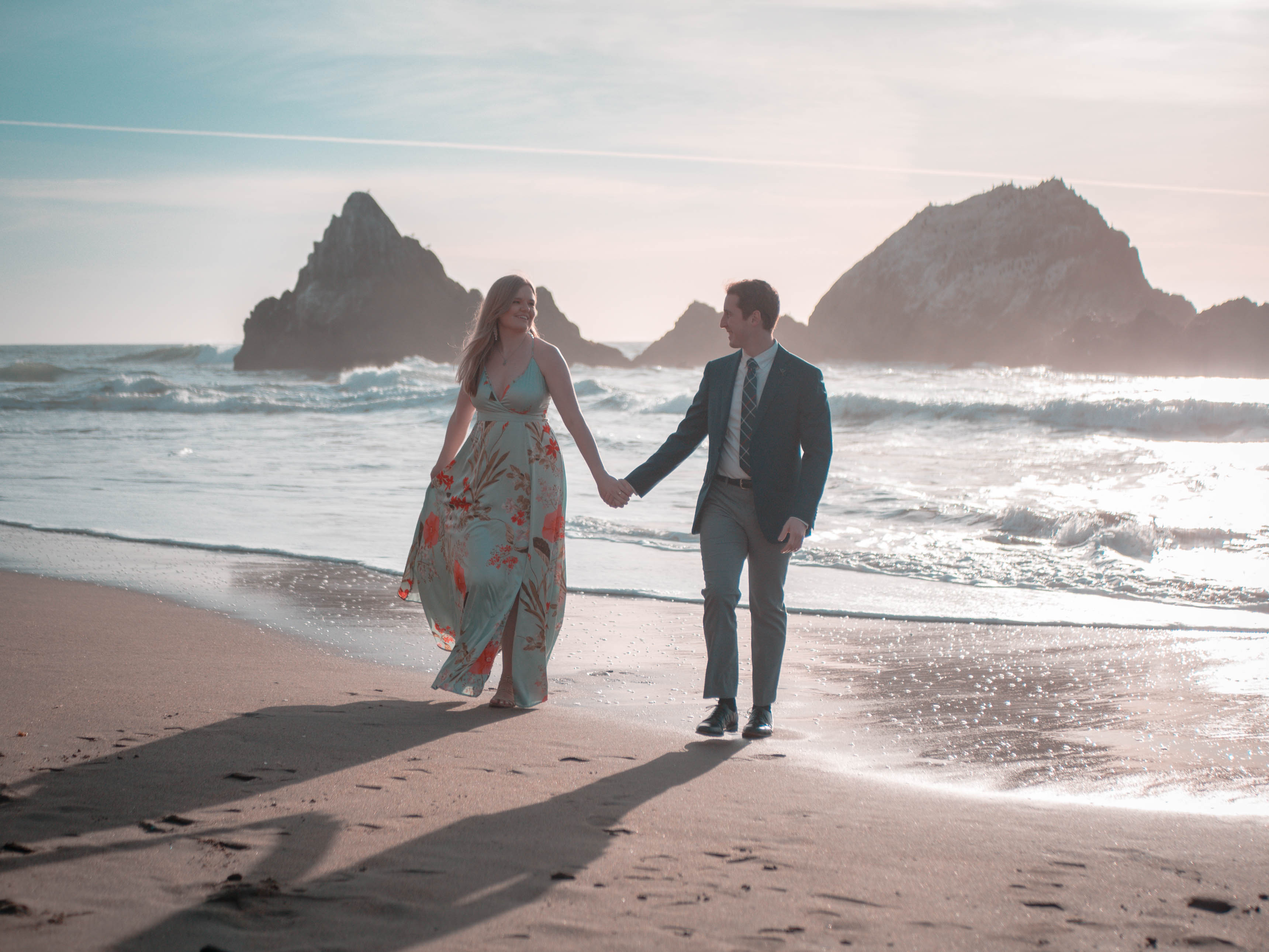
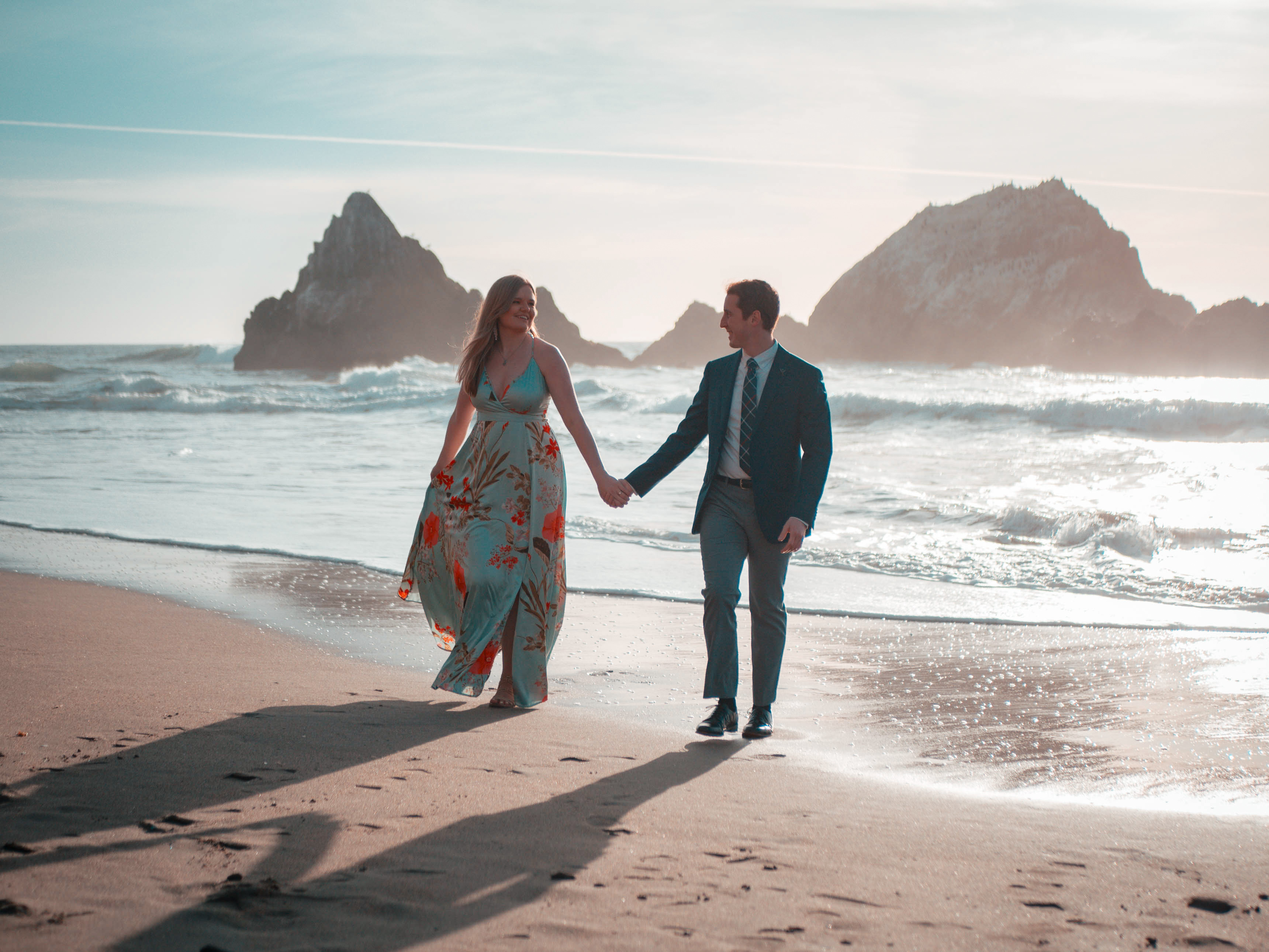
add hero image and update styles

diff --git a/src/components/Header/Header.tsx b/src/components/Header/Header.tsx
@@ -1,3 +1,4 @@
+import clsx from 'clsx';
 import { Link } from 'gatsby';
 import React from 'react';
 
@@ -5,29 +6,54 @@ import { Routes } from '../../types/routes';
 import * as styles from './Header.module.css';
 
 interface HeaderProps {
-  siteTitle: string;
+  className?: string;
 }
 
-const Header: React.FC<HeaderProps> = ({ siteTitle }) => (
-  <header className="flex items-center justify-between">
-    <h1>
-      <Link to={Routes.Index}>{siteTitle}</Link>
-    </h1>
-    <nav className="flex">
-      <Link className={styles.navLink} to={Routes.OurStory}>
-        Our Story
-      </Link>
-      <Link className={styles.navLink} to={Routes.Accommodations}>
-        Accommodations
-      </Link>
-      <Link className={styles.navLink} to={Routes.Rsvp}>
-        RSVP
-      </Link>
-      <Link className={styles.navLink} to={Routes.Registry}>
-        Registry
-      </Link>
-    </nav>
-  </header>
-);
+const Header: React.FC<HeaderProps> = ({ className }) => {
+  // const [isFloating, setIsFloating] = useState(() => window.scrollY > 0);
+
+  // useEffect(() => {
+  //   function updateScrollState() {
+  //     window.requestAnimationFrame(() => {
+  //       setIsFloating(window.scrollY > 0);
+  //     });
+  //   }
+  //   updateScrollState();
+  //   window.addEventListener('scroll', updateScrollState);
+
+  //   return () => {
+  //     window.removeEventListener('scroll', updateScrollState);
+  //   };
+  // }, []);
+
+  return (
+    <header className={clsx(className, 'flex flex-col items-center p-9 transition-colors')}>
+      <h3>
+        <Link className="flex items-center" to={Routes.Index}>
+          <span className="font-serif text-lightPrimary">E</span>
+          <span className="font-serif text-lightSecondary text-h5 px-6">&amp;</span>
+          <span className="font-serif text-lightPrimary">L</span>
+        </Link>
+      </h3>
+      <nav className="flex uppercase tracking-widest">
+        <Link activeClassName={styles.isActive} className={styles.navLink} to={Routes.OurStory}>
+          Our Story
+        </Link>
+        <span className={styles.divider}>|</span>
+        <Link activeClassName={styles.isActive} className={styles.navLink} to={Routes.Accommodations}>
+          Accommodations
+        </Link>
+        <span className={styles.divider}>|</span>
+        <Link activeClassName={styles.isActive} className={styles.navLink} to={Routes.Rsvp}>
+          RSVP
+        </Link>
+        <span className={styles.divider}>|</span>
+        <Link activeClassName={styles.isActive} className={styles.navLink} to={Routes.Registry}>
+          Registry
+        </Link>
+      </nav>
+    </header>
+  );
+};
 
 export default Header;

diff --git a/src/pages/index.tsx b/src/pages/index.tsx
@@ -1,36 +1,41 @@
-import { graphql, PageProps } from 'gatsby';
+import { PageProps } from 'gatsby';
 import { StaticImage } from 'gatsby-plugin-image';
 import React from 'react';
 
-import { SEO } from '../components';
+import { Header, HeroImage, SEO } from '../components';
+import * as heroImageStyles from '../components/HeroImage/HeroImage.module.css';
 import { PageLayout } from '../templates';
 import { SiteData } from '../types';
+import * as indexStyles from './index.module.css';
 
 const Index: React.FC<PageProps<SiteData>> = ({ data }) => (
   <PageLayout>
     <SEO />
-    <StaticImage
-      alt="Eric and Lauren at the beach"
-      breakpoints={[2560]}
-      layout="fullWidth"
-      loading="eager"
-      quality={90}
-      src="../assets/images/P1199322.jpg"
-    />
+    <HeroImage
+      className={indexStyles.homeImage}
+      image={
+        <StaticImage
+          alt="Eric and Lauren at the beach"
+          breakpoints={[428, 768, 1024, 1366, 1920, 2560, 3840]}
+          className={heroImageStyles.heroImageArea}
+          layout="fullWidth"
+          loading="eager"
+          placeholder="dominantColor"
+          quality={90}
+          src="../assets/images/P1188863.jpg"
+        />
+      }
+    >
+      <div className="flex flex-col items-center">
+        <Header className="mb-9" />
+        <h1 className="text-lightPrimary font-normal font-stylized">We&apos;re getting married!</h1>
+        <h5 className="text-lightSecondary">03.04.2023</h5>
+      </div>
+    </HeroImage>
   </PageLayout>
 );
 
 export default Index;
-
-export const query = graphql`
-  query {
-    site {
-      siteMetadata {
-        title
-      }
-    }
-  }
-`;
 
 // In case we need to fetch some API:
 // export async function getServerData() {

diff --git a/tailwind.config.js b/tailwind.config.js
@@ -6,9 +6,15 @@ module.exports = {
   plugins: [],
   theme: {
     extend: {
+      colors: {
+        darkPrimary: '#292524',
+        darkSecondary: '#78716c',
+        lightPrimary: '#fafaf9',
+        lightSecondary: '#d6d3d1',
+      },
       fontFamily: {
         sans: ['Montserrat', ...defaultTheme.fontFamily.sans],
-        serif: ['"Cormorant Garamond"', ...defaultTheme.fontFamily.serif],
+        serif: ['"Playfair Display"', ...defaultTheme.fontFamily.serif],
         stylized: ['"Great Vibes"'],
       },
     },
@@ -22,20 +28,24 @@ module.exports = {
       h6: ['1.333rem', 1.3],
     },
     spacing: {
-      '-1': '0.75rem',
-      '-2': '0.563rem',
-      '-3': '0.422rem',
-      '-4': '0.317rem',
-      '-5': '0.178rem',
-      '-6': '0.1rem',
-      1: '1.333rem',
-      2: '1.777rem',
-      3: '2.369rem',
-      4: '3.157rem',
-      5: '4.209rem',
-      6: '5.61rem',
-      7: '7.478rem',
+      // Typography scale can be found here:
+      // https://type-scale.com/?size=16&scale=1.333&text=This%20is%20a%20heading&font=Playfair%20Display&fontweight=600&bodyfont=Montserrat&bodyfontweight=300&lineheight=1.75&backgroundcolor=%23ffffff&fontcolor=%23000000&preview=false
+      0: '0rem',
+      1: '0.1rem',
+      2: '0.178rem',
+      3: '0.317rem',
+      4: '0.422rem',
+      5: '0.563rem',
+      6: '0.75rem',
+      7: '1.333rem',
+      8: '1.777rem',
+      9: '2.369rem',
+      10: '3.157rem',
+      11: '4.209rem',
+      12: '5.61rem',
+      13: '7.478rem',
       base: '1rem',
+      px: '1px',
     },
   },
 };

diff --git a/src/templates/PageLayout/PageLayout.tsx b/src/templates/PageLayout/PageLayout.tsx
@@ -4,28 +4,15 @@
  * See: https://www.gatsbyjs.com/docs/use-static-query/
  */
 
-import { graphql, useStaticQuery } from 'gatsby';
 import React from 'react';
 
-import { Footer, Header } from '../../components';
-import { SiteData } from '../../types';
+import { Footer } from '../../components';
 
 interface PageLayoutProps {}
 
 const PageLayout: React.FC<React.PropsWithChildren<PageLayoutProps>> = ({ children }) => {
-  const { site }: SiteData = useStaticQuery(graphql`
-    query SiteTitleQuery {
-      site {
-        siteMetadata {
-          title
-        }
-      }
-    }
-  `);
-
   return (
     <>
-      <Header siteTitle={site.siteMetadata.title} />
       <main>{children}</main>
       <Footer />
     </>

diff --git a/gatsby-config.ts b/gatsby-config.ts
@@ -20,8 +20,8 @@ const config: GatsbyConfig = {
         preconnect: [`https://fonts.gstatic.com`],
         web: [
           {
-            file: `https://fonts.googleapis.com/css2?family=Cormorant+Garamond&display=swap`,
-            name: `Cormorant Garamond`,
+            file: `https://fonts.googleapis.com/css2?family=Playfair+Display:ital,wght@0,600;1,600&display=swap`,
+            name: `Playfair Display`,
           },
           {
             file: `https://fonts.googleapis.com/css2?family=Great+Vibes&display=swap`,

diff --git a/src/components/HeroImage/HeroImage.tsx b/src/components/HeroImage/HeroImage.tsx
@@ -1,0 +1,20 @@
+import clsx from 'clsx';
+import React from 'react';
+
+import * as styles from './HeroImage.module.css';
+
+interface HeroImageProps {
+  className?: string;
+  image: React.ReactNode;
+}
+
+const HeroImage: React.FC<HeroImageProps> = ({ children, className, image }) => {
+  return (
+    <div className={clsx(className, 'grid w-full h-screen p-9')}>
+      {image}
+      <div className={styles.heroImageArea}>{children}</div>
+    </div>
+  );
+};
+
+export default HeroImage;

diff --git a/src/assets/styles/globals.css b/src/assets/styles/globals.css
@@ -3,8 +3,9 @@
 @tailwind utilities;
 
 body {
+  @apply font-normal;
   @apply text-base;
-  @apply text-slate-700;
+  @apply text-darkSecondary;
 }
 
 h1,
@@ -15,8 +16,9 @@ h5,
 h6 {
   margin: 0;
   @apply font-serif;
-  @apply mb-1;
-  @apply text-slate-900;
+  @apply font-semibold;
+  @apply mb-7;
+  @apply text-darkPrimary;
 }
 
 h1 {

diff --git a/src/components/Header/Header.module.css b/src/components/Header/Header.module.css
@@ -1,3 +1,18 @@
-.navLink + .navLink {
-  @apply ml-1;
+.navLink {
+  @apply text-lightSecondary;
+  @apply transition-colors;
+}
+
+.navLink:hover,
+.navLink.isActive {
+  @apply text-lightPrimary;
+}
+
+.navLink {
+  @apply px-7;
+}
+
+.divider {
+  @apply text-lightSecondary;
+  @apply pointer-events-none;
 }

diff --git a/src/components/index.ts b/src/components/index.ts
@@ -1,3 +1,4 @@
 export { Footer } from './Footer';
 export { Header } from './Header';
+export { HeroImage } from './HeroImage';
 export { SEO } from './SEO';

diff --git a/src/components/HeroImage/HeroImage.module.css b/src/components/HeroImage/HeroImage.module.css
@@ -1,0 +1,6 @@
+.heroImageArea {
+  display: grid;
+  grid-area: 1/1;
+  justify-content: center;
+  position: relative;
+}

diff --git a/src/components/HeroImage/index.ts b/src/components/HeroImage/index.ts
@@ -1,0 +1,1 @@
+export { default as HeroImage } from './HeroImage';

diff --git a/src/pages/index.module.css b/src/pages/index.module.css
@@ -1,0 +1,3 @@
+.homeImage img {
+  object-position: 50% 0%;
+}
